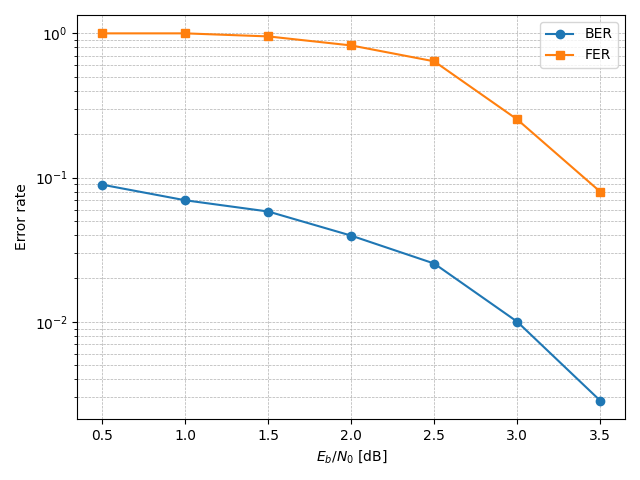
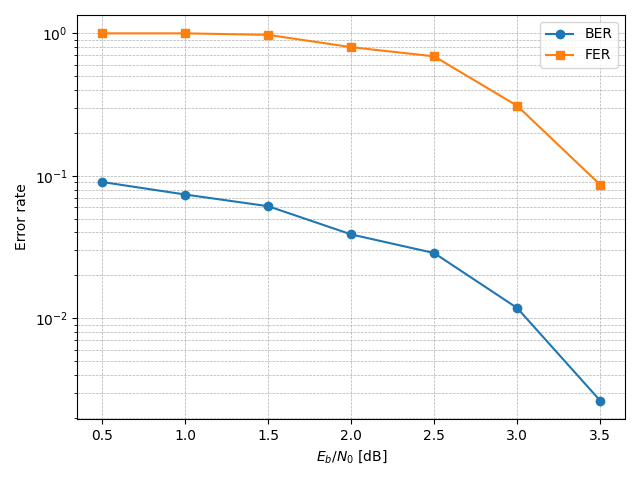
SNR = 0.50 dB | frames =   40 | BER = 9.039e-02 | FER = 1.000e+00 SNR = 1.00 dB | frames =   40 | BER = 7.382e-02 | FER = 1.000e+00 SNR = 1.50 dB | frames =   41 | BER = 6.112e-02 | FER = 9.756e-01 SNR = 2.00 dB | frames =   50 | BER = 3.875e-02 | FER = 8.000e-01 SNR = 2.50 dB | frames =   58 | BER 

Changed region(s): [[0.0625, 0.3125, 0.9688, 0.8438], [0.3125, 0.0625, 0.875, 0.3125]]

diff --git a/simulate_qc_ldpc.py b/simulate_qc_ldpc.py
@@ -3,34 +3,39 @@ import math
 import matplotlib.pyplot as plt
 
 
-# ------------------------------
-# 1. 构造 QC-LDPC 校验矩阵 H
-# ------------------------------
+# ============================================================
+# 1. 构造 QC-LDPC 校验矩阵 H (51 x 255)
+# ============================================================
 
 def build_parity_check():
     """
-    Build the 51 x 255 parity-check matrix H from the
-    3 x 15 exponent matrix E with circulant size Z = 17.
+    构造 QC-LDPC 的校验矩阵 H。
+    - 块行数 m_b = 3
+    - 块列数 n_b = 15
+    - 循环度 Z = 17
+    - 指数矩阵 E 决定每个循环矩阵的移位量
     """
     Z = 17
-    m_b, n_b = 3, 15
+    m_b, n_b = 3, 15  # 块行 / 块列
 
-    # exponent matrix E, exactly as in the report
+    # 指数矩阵 E：每个 e_{i,j} 是 [0, Z-1] 里的一个整数
+    # 对应一个 ZxZ 的循环置换矩阵的移位量
     E = np.array([
         [0] * 15,
         list(range(15)),
         [0, 2, 4, 6, 8, 10, 12, 14, 16, 1, 3, 5, 7, 9, 11]
     ], dtype=int)
 
-    m, n = m_b * Z, n_b * Z
-    H = np.zeros((m, n), dtype=np.uint8)
+    m, n = m_b * Z, n_b * Z                       # H 的总行数和总列数
+    H = np.zeros((m, n), dtype=np.uint8)          # H 初始化为 0 矩阵
 
-    # circulant permutation P^shift: position (r, (r+shift) mod Z)
-    for br in range(m_b):
-        for bc in range(n_b):
+    # 把每个块位置 (br, bc) 展开成一个 ZxZ 循环置换矩阵
+    # 循环矩阵 P^shift：第 r 行在列 (r + shift) mod Z 处为 1
+    for br in range(m_b):                         # block row 索引
+        for bc in range(n_b):                     # block column 索引
             shift = int(E[br, bc] % Z)
-            row_base = br * Z
-            col_base = bc * Z
+            row_base = br * Z                     # 对应的大矩阵起始行
+            col_base = bc * Z                     # 对应的大矩阵起始列
             for r in range(Z):
                 c = (r + shift) % Z
                 H[row_base + r, col_base + c] = 1
@@ -40,9 +45,11 @@ def build_parity_check():
 
 def build_neighbors(H):
     """
-    Pre-compute neighbor lists for BP decoding.
-    check_neighbors[j] = list of variable indices connected to check j
-    var_neighbors[i]   = list of check indices    connected to variable i
+    根据 H 预先计算邻接表，方便 BP 使用。
+
+    返回：
+    - check_neighbors[j] : 与第 j 个校验节点相连的比特索引列表
+    - var_neighbors[i]   : 与第 i 个比特节点相连的校验索引列表
     """
     m, n = H.shape
     check_neighbors = [np.where(H[j, :] == 1)[0] for j in range(m)]
@@ -50,70 +57,81 @@ def build_neighbors(H):
     return check_neighbors, var_neighbors
 
 
-# ------------------------------
-# 2. log-domain sum-product BP
-# ------------------------------
+# ============================================================
+# 2. log-domain sum-product BP 解码器
+# ============================================================
 
 def bp_decode(llr, H, check_neighbors, var_neighbors, max_iter=50):
     """
-    Log-domain sum-product decoder.
+    对一个码字做 log-domain sum-product (BP) 解码。
 
-    llr : channel LLRs, shape (n,)
-    H   : parity-check matrix, shape (m, n)
-    Return: estimated codeword bits (0/1), shape (n,)
+    参数：
+    - llr : 信道 LLR，形状为 (n,)
+    - H   : 校验矩阵，形状为 (m, n)
+    - check_neighbors, var_neighbors : 预先算好的邻接表
+    - max_iter : 最大迭代次数
+
+    返回：
+    - c_hat : 估计出来的码字比特 (0/1)，形状为 (n,)
     """
     m, n = H.shape
 
-    # messages indexed as [check, var]
-    Q = np.zeros((m, n), dtype=np.float64)  # var -> check
-    R = np.zeros((m, n), dtype=np.float64)  # check -> var
+    # 消息数组：
+    # Q[j, i] = 变量结点 i -> 校验结点 j 的消息
+    # R[j, i] = 校验结点 j -> 变量结点 i 的消息
+    Q = np.zeros((m, n), dtype=np.float64)
+    R = np.zeros((m, n), dtype=np.float64)
 
-    # initialization: Q_{i->j} = L_i for all edges
+    # ---------------- 初始化 ----------------
+    # 初始时，每条边上的变量到校验消息都设为信道 LLR
     for i in range(n):
         neigh = var_neighbors[i]
         if neigh.size > 0:
             Q[neigh, i] = llr[i]
 
-    # iterations
+    # ---------------- 迭代过程 ----------------
     for _ in range(max_iter):
 
-        # ---- check node update ----
+        # ---------- 校验结点更新（check node update） ----------
         for j in range(m):
-            neigh = check_neighbors[j]
+            neigh = check_neighbors[j]   # 与校验结点 j 相连的比特索引
             if neigh.size == 0:
                 continue
 
-            Qj = Q[j, neigh]  # messages into check j from all neighbors
+            Qj = Q[j, neigh]            # 进入校验结点 j 的所有消息
 
-            # tanh-based sum-product
+            # 根据 sum-product 公式，需要计算 tanh(Q/2) 的乘积
             tanh_half = np.tanh(0.5 * Qj)
             prod_all = np.prod(tanh_half)
 
             for idx, i in enumerate(neigh):
                 denom = tanh_half[idx]
 
-                # avoid division by (almost) zero
+                # 为了数值稳定，避免除以 0
                 if abs(denom) < 1e-12:
+                    # 退化处理：直接把当前这条边剔除后再乘一遍
                     others = np.delete(tanh_half, idx)
                     val = np.prod(others)
                 else:
                     val = prod_all / denom
 
-                # clip to (-1, 1) to avoid atanh overflow
+                # arctanh 的输入必须在 (-1, 1) 内，截断一下
                 val = np.clip(val, -0.999999, 0.999999)
                 R[j, i] = 2.0 * np.arctanh(val)
 
-        # ---- variable node update ----
+        # ---------- 变量结点更新（variable node update） ----------
         for i in range(n):
             neigh = var_neighbors[i]
             if neigh.size == 0:
                 continue
 
+            # 所有从校验结点回来的消息求和
             sumR = np.sum(R[neigh, i])
+            # 对每条边：Q_{i->j} = L_i + sum_{k != j} R_{k->i}
             for j in neigh:
                 Q[j, i] = llr[i] + (sumR - R[j, i])
 
-        # ---- a posteriori decision & syndrome check ----
+        # ---------- 合并得到 a posteriori LLR，并检查收敛 ----------
         T = np.zeros(n, dtype=np.float64)
         for i in range(n):
             neigh = var_neighbors[i]
@@ -122,38 +140,47 @@ def bp_decode(llr, H, check_neighbors, var_neighbors, max_iter=50):
             else:
                 T[i] = llr[i]
 
-        c_hat = (T < 0).astype(np.uint8)  # 0 if LLR>=0, 1 if LLR<0
+        # 硬判决：LLR >= 0 判为 0，否则判为 1
+        c_hat = (T < 0).astype(np.uint8)
 
+        # 计算 syndrome 判断是否满足所有校验方程
         syndrome = H.dot(c_hat) % 2
-        if not syndrome.any():  # all-zero syndrome
+        if not syndrome.any():  # 全 0，说明解码成功，可以提前结束
             break
 
     return c_hat
 
 
-# ------------------------------
-# 3. Monte Carlo 仿真
-# ------------------------------
+# ============================================================
+# 3. Monte Carlo 仿真：统计 BER / FER
+# ============================================================
 
 def simulate_qc_ldpc(
     EbN0_dB_list,
     R=0.8,
     max_iter=50,
-    max_frames=300,
-    target_frame_errors=80,
+    max_frames=150,
+    target_frame_errors=40,
     seed=1234
 ):
     """
-    Simulate BER and FER for the designed QC-LDPC code over BI-AWGN.
+    在 BI-AWGN 信道上，对给定的一组 Eb/N0 点做蒙特卡洛仿真。
 
-    EbN0_dB_list       : list or array of Eb/N0 values in dB
-    R                  : code rate (here 0.8)
-    max_iter           : max BP iterations
-    max_frames         : max frames per SNR point
-    target_frame_errors: stop early when this many frame errors collected
+    参数：
+    - EbN0_dB_list        : Eb/N0 的 dB 列表
+    - R                   : 码率
+    - max_iter            : BP 最大迭代次数
+    - max_frames          : 每个 SNR 点最多仿真的帧数
+    - target_frame_errors : 每个 SNR 点累计到这么多错帧就提前停
+    - seed                : 随机数种子，方便复现
+
+    返回：
+    - ber_list : 每个 SNR 点对应的 BER
+    - fer_list : 每个 SNR 点对应的 FER
     """
     rng = np.random.default_rng(seed)
 
+    # 先构造一次 H 和邻接表，在所有 SNR 点共用
     H = build_parity_check()
     check_neighbors, var_neighbors = build_neighbors(H)
     m, n = H.shape
@@ -162,7 +189,9 @@ def simulate_qc_ldpc(
     fer_list = []
 
     for snr_db in EbN0_dB_list:
+        # dB -> 线性 Eb/N0
         EbN0_lin = 10 ** (snr_db / 10.0)
+        # 由 Eb/N0 与码率 R 计算噪声方差 sigma^2
         sigma2 = 1.0 / (2 * R * EbN0_lin)
         sigma = math.sqrt(sigma2)
 
@@ -171,18 +200,24 @@ def simulate_qc_ldpc(
         total_frames = 0
         total_frame_errors = 0
 
+        # 在当前 SNR 点循环仿真多帧
         while total_frames < max_frames and total_frame_errors < target_frame_errors:
-            # all-zero codeword -> all +1 BPSK
+            # 线性码 + 对称信道：发全零码字即可
+            # 全零码字 BPSK 映射后就是全 +1
             x = np.ones(n, dtype=np.float64)
 
+            # AWGN 噪声
             noise = rng.normal(0.0, sigma, size=n)
             y = x + noise
 
-            # LLR: L_i = 2 y_i / sigma^2
+            # 信道 LLR：L_i = 2*y_i / sigma^2
             llr = 2.0 * y / sigma2
 
+            # BP 解码
             c_hat = bp_decode(llr, H, check_neighbors, var_neighbors, max_iter=max_iter)
-            bit_errors = int(c_hat.sum())  # true bits are all 0
+
+            # 真值是全 0，所以 1 的个数就是 bit error 数
+            bit_errors = int(c_hat.sum())
 
             total_bits += n
             total_bit_errors += bit_errors
@@ -190,6 +225,7 @@ def simulate_qc_ldpc(
             if bit_errors > 0:
                 total_frame_errors += 1
 
+        # 统计 BER / FER
         ber = total_bit_errors / total_bits
         fer = total_frame_errors / total_frames
 
@@ -205,23 +241,24 @@ def simulate_qc_ldpc(
     return np.array(ber_list), np.array(fer_list)
 
 
-# ------------------------------
-# 4. 运行仿真并画图
-# ------------------------------
+# ============================================================
+# 4. 主程序：跑仿真并画 BER / FER 曲线
+# ============================================================
 
 if __name__ == "__main__":
-    # 和报告里描述类似：0.5 dB ~ 3.5 dB 步长 0.5 dB
+    # 这里选 0.5 dB ~ 3.5 dB，步长 0.5 dB
     EbN0_dB_list = np.arange(0.5, 3.6, 0.5)
 
     ber, fer = simulate_qc_ldpc(
         EbN0_dB_list,
         R=0.8,
-        max_iter=30,         # 迭代次数，不够可以调大
-        max_frames=300,      # 每个点最多多少帧
-        target_frame_errors=80
+        max_iter=50,          # 与报告中“最多 50 次迭代”一致
+        max_frames=150,       # 每个 SNR 点最多 150 帧
+        target_frame_errors=40,
+        seed=2025
     )
 
-    # 画 BER / FER 曲线（对数坐标）
+    # 画 BER / FER 曲线（纵轴对数坐标）
     plt.figure()
     plt.semilogy(EbN0_dB_list, ber, "o-", label="BER")
     plt.semilogy(EbN0_dB_list, fer, "s-", label="FER")
@@ -231,6 +268,6 @@ if __name__ == "__main__":
     plt.legend()
     plt.tight_layout()
 
-    # 保存为 PDF，和 LaTeX 里的文件名一致
-    plt.savefig("ber_fer_qcldpc.pdf")
+    # 保存!
+    plt.savefig("ber_fer_qcldpc.png")
     plt.show()
